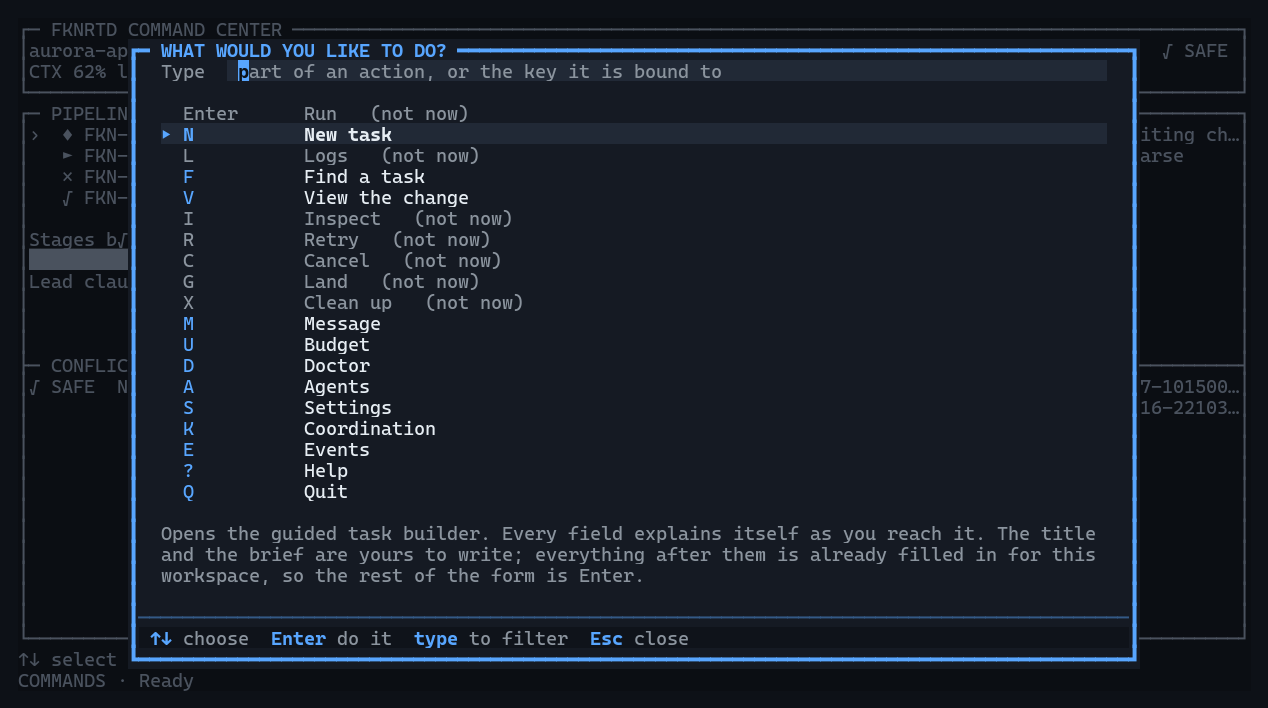
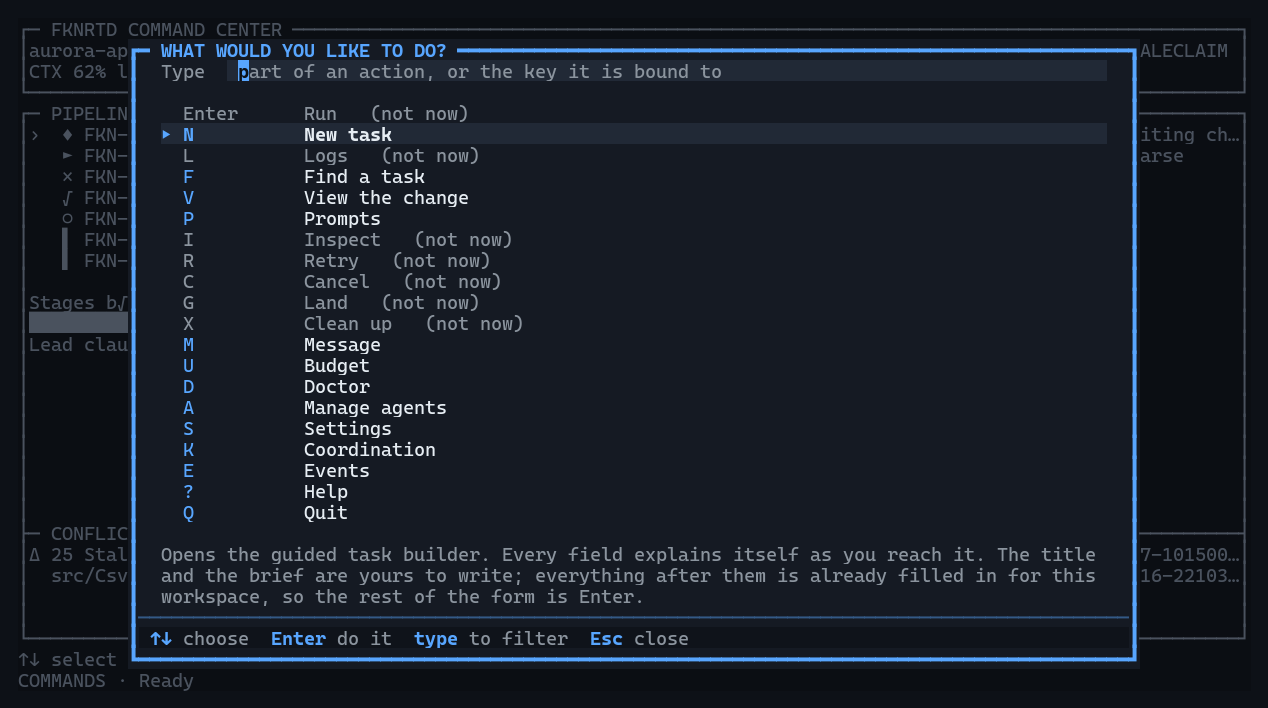
Regenerate the screenshots and fix the README's stale claim
All fifteen captures had drifted: the layouts changed today — the pipeline now
uses the height it is given instead of stopping at five rows, and the lower
panels take what their contents need — so every dashboard frame in the README
was showing an arrangement the product no longer produces. That is exactly the
failure the generated captures exist to prevent, and it only works if they are
regenerated.

Two new ones: the agent roster, and an agent at work in the log view, which is
the screen that changed most today.

The README also still said "every field has a working default, so pressing Enter
through the form produces a valid task" — the claim Codex caught in the command
catalog and I corrected there without noticing the front door said it too. The
title and the brief have no default, and a brief too short to act on is refused.
Both places now say so.

And the bullet list of what makes this explain itself now mentions that the
screens which explain things can also change them, which was the substance of
most of this session.

65 self-tests pass.

diff --git a/scripts/capture-frames.py b/scripts/capture-frames.py
@@ -41,6 +41,8 @@ FRAMES = {
     "diff": ("diff", 112, 30),
     "prompts": ("prompts", 112, 32),
     "settings": ("settings", 112, 32),
+    "agents": ("agents", 112, 30),
+    "agent-log": ("logs-json", 112, 26),
     "welcome": ("welcome", 118, 32),
 }
 

diff --git a/README.md b/README.md
@@ -22,11 +22,15 @@ first, keeps the paperwork, and refuses to merge anything until you personally s
 
 You are not expected to arrive knowing what a *brief*, a *lead* or an *auditor* is.
 
-- Every field the task builder asks for arrives with its own definition and a worked example.
-  Every field has a working default, so pressing Enter through the form produces a valid task.
+- Every field the task builder asks for arrives with its own definition and a worked example. The
+  title and the brief are yours to write; everything after them already holds the right answer for
+  this workspace, so the rest of the form is Enter.
 - `?` opens the key reference and a searchable glossary of every word the product uses. `/` opens
   a command palette listing every action — including the ones you cannot take right now, each with
   the reason why.
+- The screens that explain things can also change them. `A` enables, disables, repoints, adds and
+  removes agents; `S` edits any setting with its consequence stated beside it; `K` clears the stale
+  reservations it reports. Nothing tells you to quit and run a command for something a key does.
 - Destructive steps state what they are about to do, and where to read the diff first, before
   asking for the typed confirmation.
 - From the shell, `fknrtd explain <word>` defines anything, `fknrtd help <command>` says what a
@@ -161,8 +165,9 @@ the borders.
 ![The FKNRTD.CLI dashboard at 150 columns](docs/screenshots/dash-wide.png)
 
 **Nothing asks you a question it has not explained.** Pressing `N` opens the task builder; every
-field arrives with its own definition and a worked example, and every field has a default that is
-already correct for this workspace.
+field arrives with its own definition and a worked example. The title and the brief are the two you
+write yourself — an empty title is refused, and so is a brief too short to act on — and
+everything after them already holds the right answer for this workspace.
 
 ![The guided task builder](docs/screenshots/new-task.png)
 
@@ -175,6 +180,20 @@ Choosing who does the work says what each role may touch, and warns about an age
 do the job — one that is not on `PATH`, or that cannot return a verdict and so cannot audit.
 
 ![Choosing an auditor](docs/screenshots/choose-agent.png)
+
+Pressing `A` opens the agent roster. It says which agents can actually be launched on this machine
+and which can return a verdict, and it changes the list rather than telling you to go elsewhere:
+`Space` enables or disables one, `E` points one at a different program — which is the fix for the
+commonest fault it reports — `N` adds one, and `Del` removes one after a typed confirmation.
+
+![The agent roster](docs/screenshots/agents.png)
+
+`L` follows the current stage. The shipped agents are launched with machine-readable output so
+their progress can be tracked, which makes the file on disk a stream of JSON; what is shown is a
+reading of it. Anything it does not recognise is printed exactly as it arrived, so plain build
+output keeps its indentation and an agent whose format nobody has taught it about is no worse off.
+
+![Following an agent at work](docs/screenshots/agent-log.png)
 
 `?` opens the key reference and the glossary, searched together, because someone who does not know
 a word does not know which list it is in.
